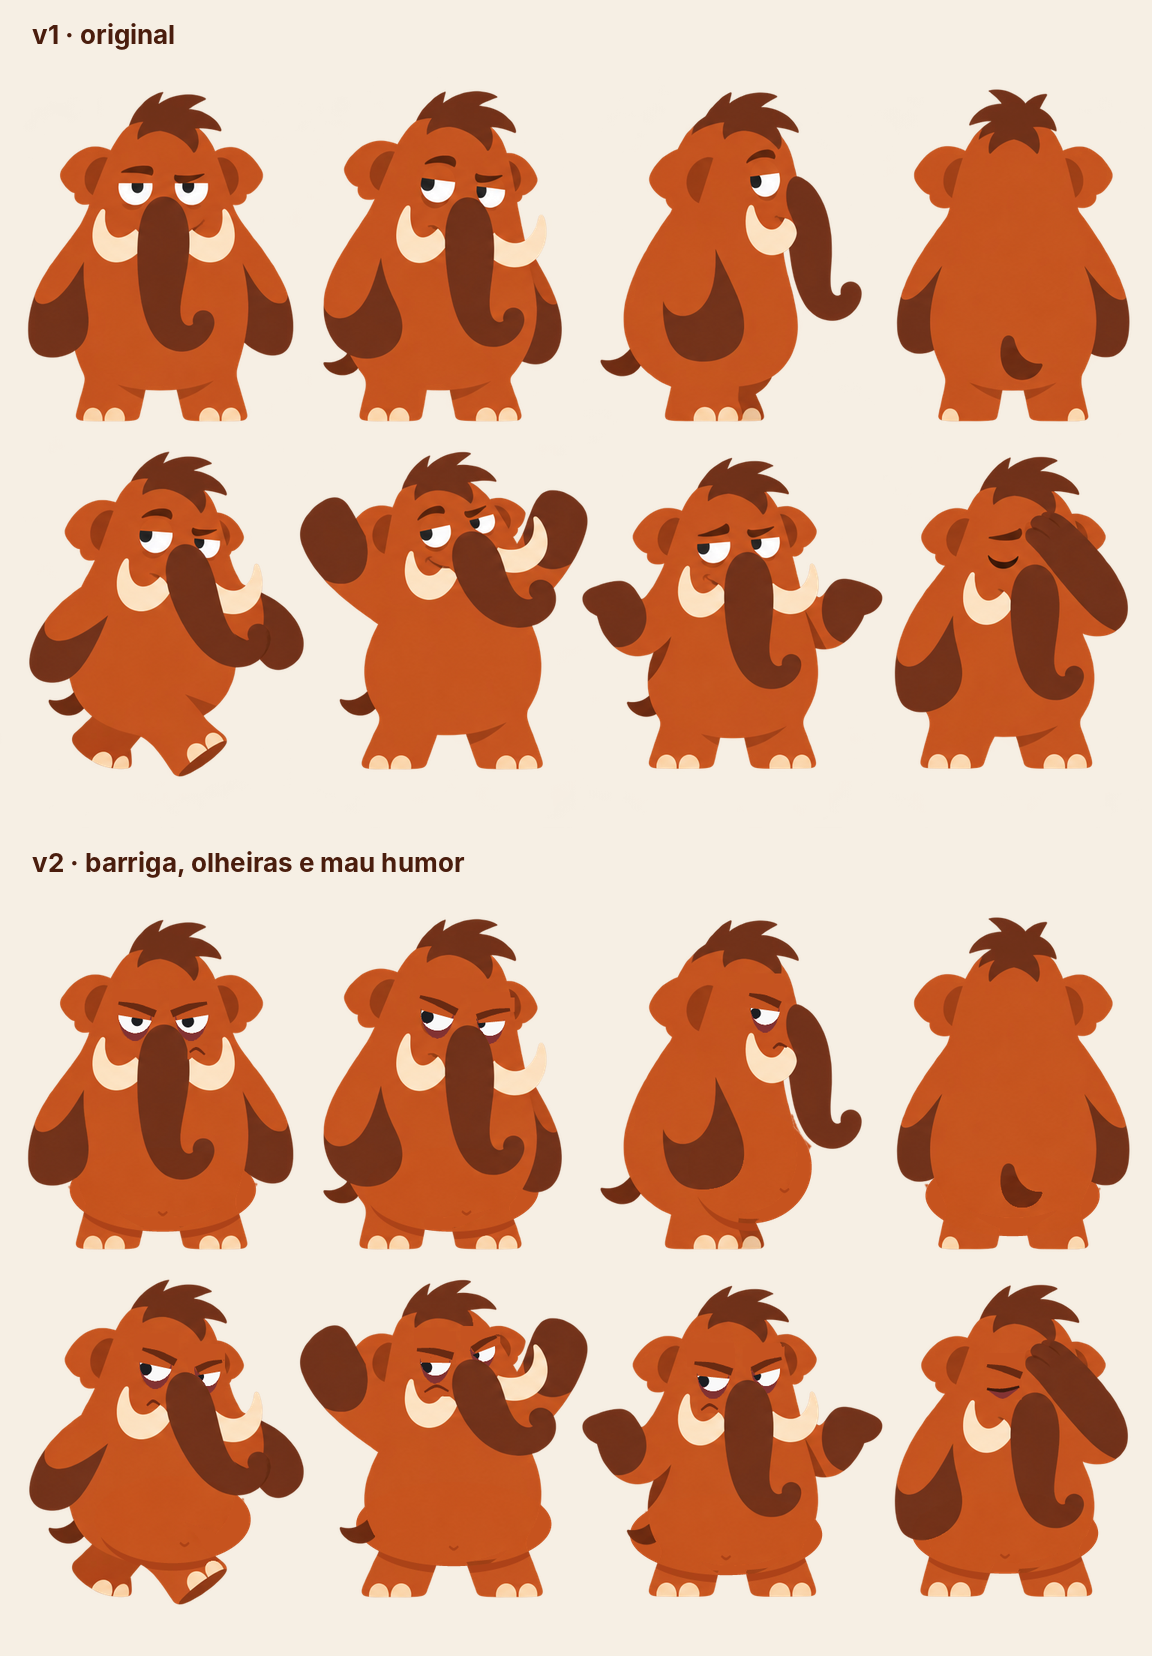
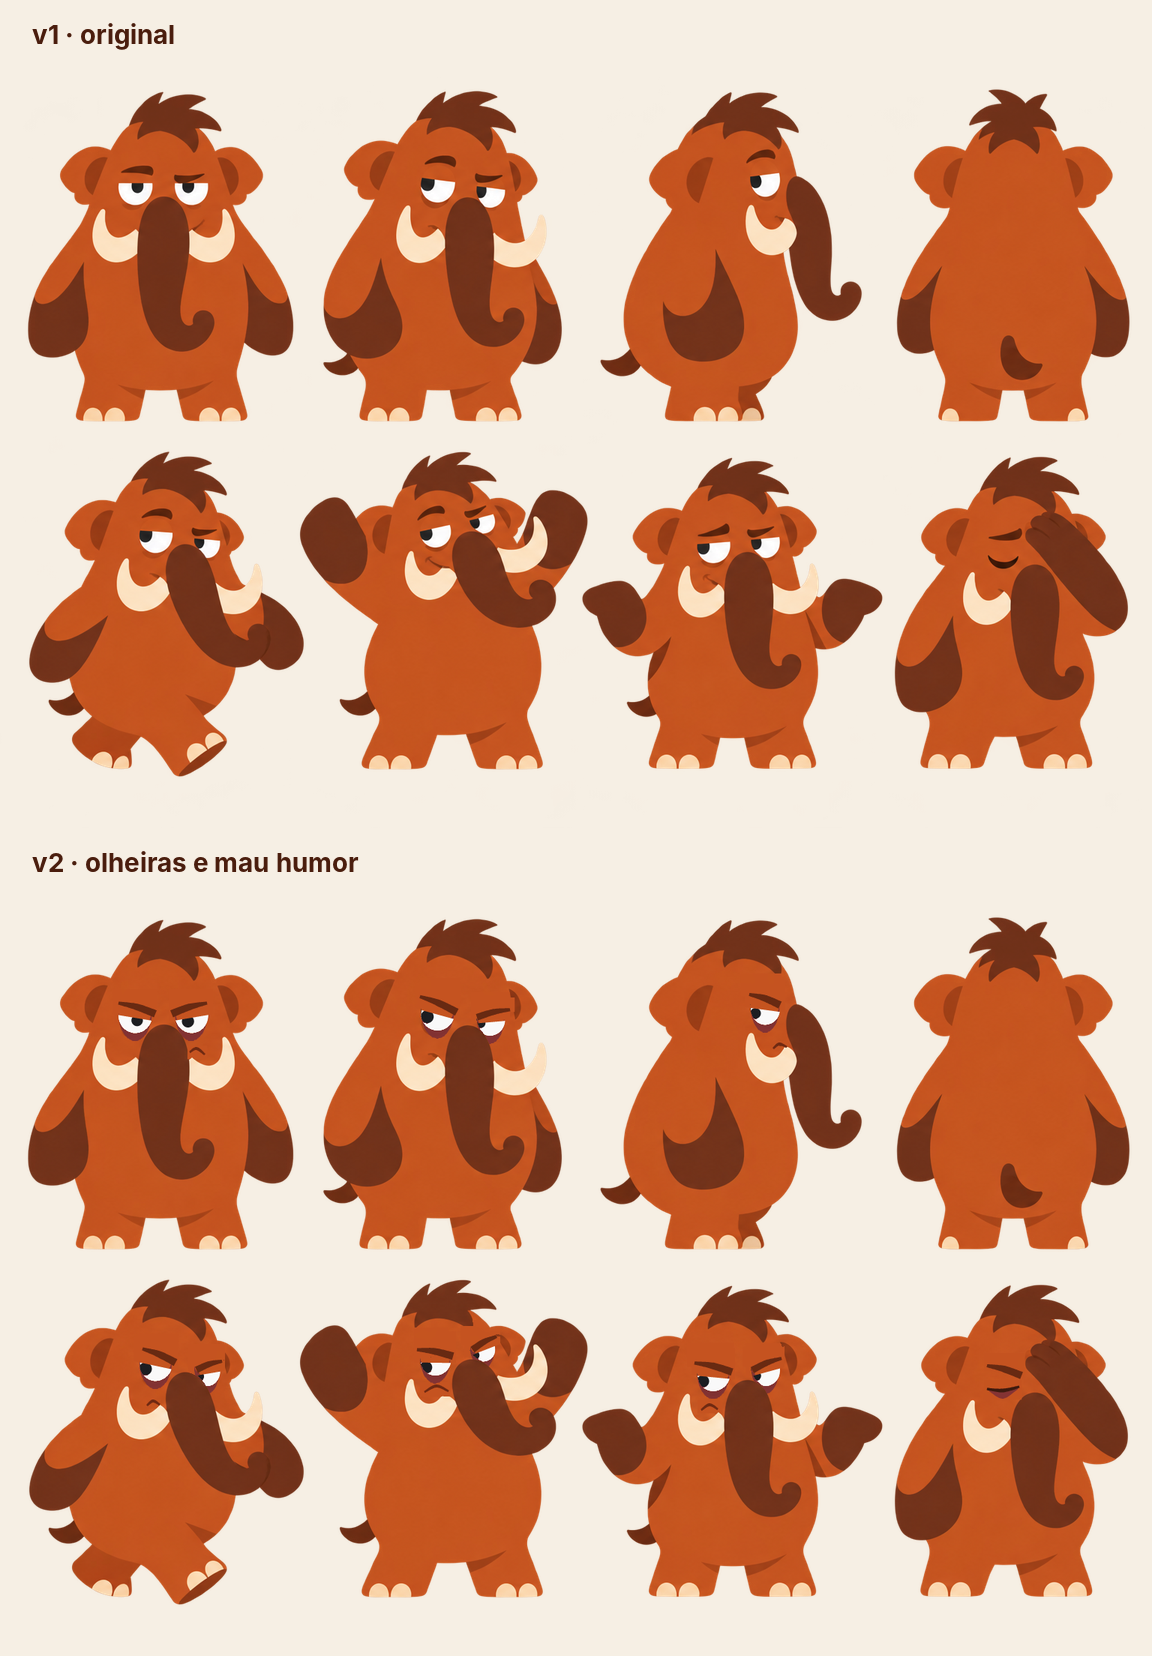
Keep Mamu's belly as in the original art
v2 now only changes the face (eye bags, lower lids, angled brows,
downturned mouth); body silhouettes match v1 exactly.

Claude-Session: https://claude.ai/code/session_01MuT75CZTtrK5bfGf4fptUT

diff --git a/personagem-mamu/arte/fonte/editar.py b/personagem-mamu/arte/fonte/editar.py
@@ -1,5 +1,5 @@
 """
-Mamu v2 = arte original (v1) + barriga mais saliente, olheiras e mau humor mais explícito.
+Mamu v2 = arte original (v1) + olheiras e mau humor mais explícito.
 
 Edita a própria imagem da v1, pintando por cima só o necessário, para manter
 formato, traço e cores idênticos. Também limpa os pontinhos soltos do recorte.
@@ -7,8 +7,8 @@ formato, traço e cores idênticos. Também limpa os pontinhos soltos do recorte
     pip install pillow numpy opencv-python-headless
     python3 editar.py            # referencia/mamu-v1-original.png -> mamu-v2.png
 
-As coordenadas de cada pose estão em main(); os parâmetros de pálpebra,
-olheira e barriga ficam em eye() e belly().
+As coordenadas de cada pose estão em main(); os parâmetros de pálpebra
+e olheira ficam em eye().
 """
 import math
 import os
@@ -21,7 +21,6 @@ from PIL import Image, ImageDraw
 SS = 4  # supersampling para bordas suaves
 
 BODY = (198, 83, 30)
-SHADE = (172, 66, 22)
 BROWN = (104, 40, 16)
 LINE = (112, 40, 16)
 LID_LINE = (60, 24, 12)
@@ -76,23 +75,6 @@ class Canvas:
         p = self.a[y0:y0 + h, x0:x0 + w]
         c = np.array(color, np.float32)
         p[..., :3] = p[..., :3] * (1 - m[..., None]) + c * m[..., None]
-
-    def behind(self, mk, color):
-        """Pinta atrás da arte existente (só aparece onde era transparente)."""
-        x0, y0, m = mk
-        h, w = m.shape
-        p = self.a[y0:y0 + h, x0:x0 + w]
-        # borda antiga semitransparente (com franja clara do recorte original) que agora
-        # fica sobre o corpo: vira cor do corpo, exceto se for borda marrom/creme
-        edge = (m > 0.05) & (p[..., 3] < 250) & (p[..., 3] > 0) & (p[..., 0] >= 145) & ~((p[..., 1] > 150) & (p[..., 3] > 128))
-        p[..., :3] = np.where(edge[..., None], np.array(color, np.float32), p[..., :3])
-        ao = p[..., 3:4] / 255.0
-        al = m[..., None]
-        out_a = ao + al * (1 - ao)
-        c = np.array(color, np.float32)
-        rgb = (p[..., :3] * ao + c * al * (1 - ao)) / np.maximum(out_a, 1e-6)
-        p[..., :3] = np.where(out_a > 0, rgb, p[..., :3])
-        p[..., 3:4] = out_a * 255
 
     def save(self, path):
         Image.fromarray(np.clip(self.a, 0, 255).round().astype(np.uint8), 'RGBA').save(path)
@@ -221,45 +203,6 @@ def brow(cv, outer, inner, ws=(4, 9, 10)):
     stroke(cv, [outer, ((outer[0] + inner[0]) / 2, (outer[1] + inner[1]) / 2 - 2), inner], list(ws), BROWN)
 
 
-def belly(cv, cx, cy, rx, ry, shade=10, navel=True, legs_shade=True):
-    box = (cx - rx - 24, cy - ry - 24, cx + rx + 24, cy + ry + shade + 24)
-    ellipse = lambda grow=0: (lambda d, T: d.ellipse(T([(cx - rx - grow, cy - ry - grow), (cx + rx + grow, cy + ry + grow)]), fill=255))
-
-    # apaga a dobra antiga que ficaria dentro da barriga nova
-    x0, y0, m = cv.mask(box, lambda d, T: d.ellipse(T([(cx - rx + 14, cy - ry * 0.2), (cx + rx - 14, cy + ry - 6)]), fill=255))
-    cl = cv.classes(x0, y0, m)
-    p = cv.a[y0:y0 + m.shape[0], x0:x0 + m.shape[1]]
-    mm = m * (cl['orange'] & (p[..., 0] < 192) & (p[..., 0] > 140))
-    p[..., :3] = p[..., :3] * (1 - mm[..., None]) + np.array(BODY, np.float32) * mm[..., None]
-
-    # silhueta: a barriga entra por trás de tudo (braços, tromba e rabo continuam na frente)
-    cv.behind(cv.mask(box, ellipse()), BODY)
-
-    # suaviza os "degraus" onde a barriga encontra o contorno do corpo
-    x0, y0, lim = cv.mask(box, ellipse(12))
-    h, w = lim.shape
-    p = cv.a[y0:y0 + h, x0:x0 + w]
-    solid = (p[..., 3] > 128).astype(np.uint8)
-    closed = cv2.morphologyEx(solid, cv2.MORPH_CLOSE, cv2.getStructuringElement(cv2.MORPH_ELLIPSE, (17, 17)))
-    r, g, b = p[..., 0], p[..., 1], p[..., 2]
-    near_brown = cv2.dilate(((r < 145) & (g < 75) & (b < 55) & (p[..., 3] > 128)).astype(np.uint8), np.ones((9, 9), np.uint8))
-    rows = (np.arange(h)[:, None] + y0) < cy + ry * 0.3
-    add = (closed > 0) & (solid == 0) & (lim > 0.5) & (near_brown == 0) & rows
-    add = cv2.GaussianBlur(add.astype(np.float32), (0, 0), 0.8)
-    cv.behind((x0, y0, add), BODY)
-
-    if legs_shade:
-        # sombra da barriga caindo nas pernas (só abaixo da barriga)
-        def crescent(d, T):
-            d.ellipse(T([(cx - rx + 6, cy - ry + shade), (cx + rx - 6, cy + ry + shade)]), fill=255)
-            d.ellipse(T([(cx - rx, cy - ry), (cx + rx, cy + ry)]), fill=0)
-            d.rectangle(T([(cx - rx - 20, cy - ry - 20), (cx + rx + 20, cy + ry * 0.35)]), fill=0)
-        cv.paint(cv.mask(box, crescent), SHADE, 1.0, ('orange',))
-    if navel:
-        nx, ny = navel if isinstance(navel, tuple) else (cx, cy + ry * 0.55)
-        stroke(cv, [(nx - 6, ny - 1), (nx, ny + 3), (nx + 6, ny - 1)], [2.5, 3.5, 2.5], SHADE, 1.0, ('orange',))
-
-
 def clean_speckles(cv):
     al = (cv.a[..., 3] > 20).astype(np.uint8)
     keep = cv2.dilate(al, np.ones((7, 7), np.uint8))
@@ -286,7 +229,6 @@ def main(src, dst):
     brow(cv, (158, lo[1] - 16), (207, li[1] - 9))
     brow(cv, (276, ro[1] - 16), (229, ri[1] - 9))
     stroke(cv, [(253, 219), (262, 214), (273, 222)], [2.5, 4, 2.5], LINE)
-    belly(cv, 217, 402, 124, 56)
 
     # 2. três quartos -----------------------------------------------------
     erase(cv, [(560, 120), (614, 120), (614, 151), (560, 151)])
@@ -295,7 +237,6 @@ def main(src, dst):
     (ro, ri) = eye(cv, (636, 169, 673, 196), 'l')
     brow(cv, (560, lo[1] - 18), (609, li[1] - 9))
     brow(cv, (680, ro[1] - 15), (636, ri[1] - 8), (4, 8, 9))
-    belly(cv, 602, 402, 116, 56, navel=(622, 432))
 
     # 3. perfil -------------------------------------------------------------
     erase(cv, [(988, 114), (1042, 114), (1042, 144), (988, 144)])
@@ -303,10 +244,8 @@ def main(src, dst):
     (eo, ei) = eye(cv, (1003, 151, 1039, 182), 'r')
     brow(cv, (999, eo[1] - 18), (1040, ei[1] - 9))
     stroke(cv, [(1031, 214), (1039, 208), (1049, 212)], [2.5, 4, 2.5], LINE)
-    belly(cv, 1000, 372, 82, 75, navel=(1046, 402))
 
-    # 4. costas: só a barriga aparecendo dos lados -------------------------
-    belly(cv, 1350, 410, 116, 54, navel=False, legs_shade=False)
+    # 4. costas: sem rosto, fica como na v1
 
     # 5. andando -------------------------------------------------------------
     erase(cv, [(182, 594), (238, 594), (238, 622), (182, 622)])
@@ -317,7 +256,6 @@ def main(src, dst):
     brow(cv, (190, lo[1] - 18), (234, li[1] - 9))
     brow(cv, (296, ro[1] - 14), (262, ri[1] - 8), (4, 8, 9))
     stroke(cv, [(196, 690), (204, 684), (213, 689)], [2.5, 4, 2.5], LINE)
-    belly(cv, 230, 842, 104, 58, navel=(246, 874))
 
     # 6. acenando -----------------------------------------------------------
     erase(cv, [(552, 586), (598, 586), (598, 614), (552, 614)])
@@ -328,7 +266,6 @@ def main(src, dst):
     brow(cv, (556, lo[1] - 17), (604, li[1] - 9))
     brow(cv, (662, ro[1] - 13), (630, ri[1] - 8), (4, 8, 9))
     stroke(cv, [(566, 672), (582, 664), (598, 671)], [2.5, 4, 2.5], LINE)
-    belly(cv, 605, 848, 130, 56)
 
     # 7. dando de ombros ----------------------------------------------------
     erase(cv, [(916, 606), (978, 606), (978, 638), (916, 638)])
@@ -339,7 +276,6 @@ def main(src, dst):
     brow(cv, (926, lo[1] - 17), (976, li[1] - 9))
     brow(cv, (1042, ro[1] - 14), (1003, ri[1] - 8), (4, 8, 9))
     stroke(cv, [(935, 696), (946, 689), (957, 695)], [2.5, 4, 2.5], LINE)
-    belly(cv, 968, 862, 128, 54)
 
     # 8. facepalm -----------------------------------------------------------
     erase(cv, [(1312, 620), (1366, 620), (1366, 644), (1312, 644)])
@@ -348,7 +284,6 @@ def main(src, dst):
     cv.paint(cv.mask(bbox_of(bag), lambda d, T: d.polygon(T(bag), fill=255)), OLHEIRA, 0.9, ('orange',))
     stroke(cv, [(1316, 668), (1337, 670), (1359, 665)], [3, 5, 3], LID_LINE)
     brow(cv, (1316, 637), (1362, 650))
-    belly(cv, 1340, 860, 124, 54)
 
     cv.save(dst)
 

diff --git a/personagem-mamu/conceito/visual.md b/personagem-mamu/conceito/visual.md
@@ -2,7 +2,7 @@
 
 ![Mamu v2](../arte/mamu-v2.png)
 
-A v2 é a arte original com três acréscimos: barriga mais saliente, olheiras e mau humor mais explícito. O formato (folha com 8 poses, fundo transparente), o traço, as cores e as proporções são os da v1.
+A v2 é a arte original com dois acréscimos no rosto: olheiras e mau humor mais explícito. O formato (folha com 8 poses, fundo transparente), o traço, as cores, o corpo e as proporções são os da v1.
 
 ![v1 vs v2](../arte/mamu-v1-vs-v2.png)
 
@@ -10,7 +10,6 @@ A v2 é a arte original com três acréscimos: barriga mais saliente, olheiras e
 
 | Mudança | Como foi feita |
 |---|---|
-| **Barriga mais saliente** | O corpo ganhou volume na parte de baixo, aparecendo por trás dos braços e por cima das pernas. Tem uma sombra da barriga caindo nas pernas e um umbigo. No perfil, a barriga avança à frente do corpo; de costas, aparece dos lados. |
 | **Olheiras** | Meia-lua escura, puxada para o roxo, embaixo de cada olho, em todas as poses. Na pose da mão na cara, ela fica sob o olho fechado. |
 | **Mau humor mais explícito** | Pálpebra mais baixa e inclinada para dentro (o canto perto da tromba desce mais), sobrancelhas mais grossas e anguladas para baixo, boca virada para baixo no lugar do sorriso de canto. Na pose da mão na cara, o olho fechado deixou de ser um sorriso (∪) e virou um traço cansado. |
 
@@ -22,7 +21,7 @@ Também foram removidos os pontinhos soltos que sobraram do recorte do fundo.
 |---|---|---|
 | 1 | Frente | Padrão, idle |
 | 2 | 3/4 | Falas, reações |
-| 3 | Perfil | Entrada e saída de cena; mostra bem a barriga |
+| 3 | Perfil | Entrada e saída de cena |
 | 4 | Costas | "Você voltou" (ele vira devagar) |
 | 5 | Andando | Caminhada resmungando |
 | 6 | Acenando | Cumprimento a contragosto |
@@ -48,7 +47,7 @@ As cores são as da arte original, mais a da olheira.
 - Olheira sempre, até nas poses mais leves.
 - Pálpebra pesada e sobrancelha baixa são o padrão do rosto. Olho bem aberto só como piada (pego no flagra).
 - Sorriso, quando houver, é pequeno e de canto.
-- A barriga aparece em todas as vistas, sem exagero: é "barriguinha", não caricatura.
+- O corpo segue o da v1 (a barriga ficou como na original).
 
 ## Arquivos
 
@@ -59,7 +58,7 @@ As cores são as da arte original, mais a da olheira.
 | `arte/referencia/mamu-v1-original.png` | Arte original (v1) |
 | `arte/fonte/editar.py` | Script que gera a v2 a partir da v1 |
 
-Para ajustar algo (altura da pálpebra, tamanho da olheira, volume da barriga), mude os parâmetros em `arte/fonte/editar.py` e rode:
+Para ajustar algo (altura da pálpebra, tamanho da olheira), mude os parâmetros em `arte/fonte/editar.py` e rode:
 
 ```bash
 pip install pillow numpy opencv-python-headless

diff --git a/personagem-mamu/README.md b/personagem-mamu/README.md
@@ -40,4 +40,5 @@ personagem-mamu/
 
 | Data | Decisão |
 |---|---|
-| 2026-10-09 | **v2 do visual:** mesma arte, formato e estilo da v1, com barriga mais saliente, olheiras e mau humor mais explícito (pálpebra mais baixa, sobrancelhas anguladas, boca para baixo). Detalhes em [visual.md](conceito/visual.md). |
+| 2026-10-09 | **v2 do visual:** mesma arte, formato e estilo da v1, com olheiras e mau humor mais explícito (pálpebra mais baixa, sobrancelhas anguladas, boca para baixo). Detalhes em [visual.md](conceito/visual.md). |
+| 2026-10-09 | A barriga fica como na arte original. |
